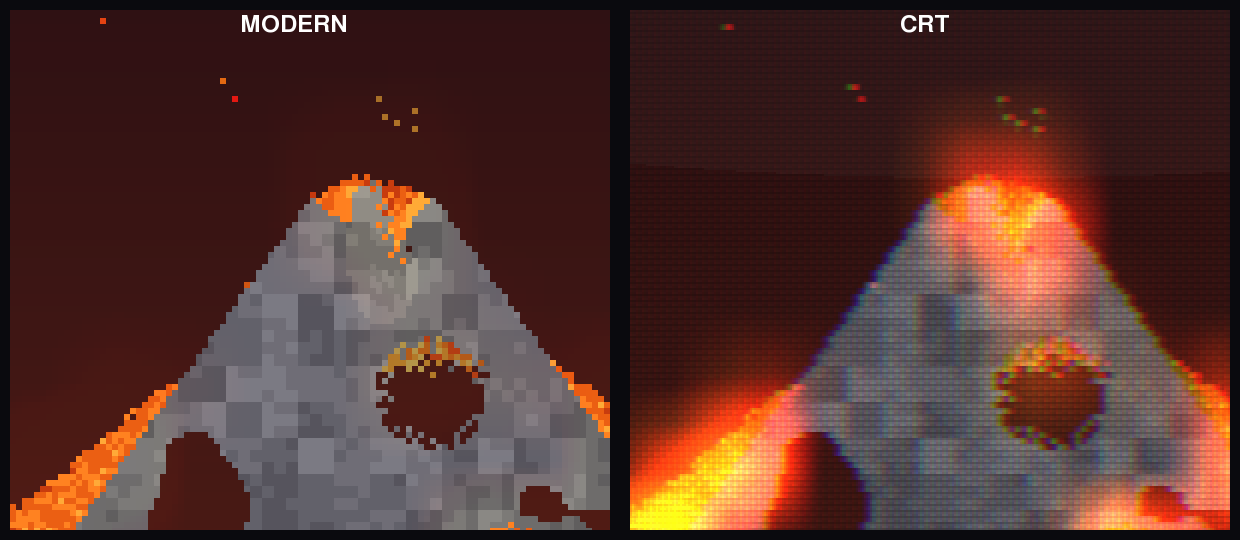
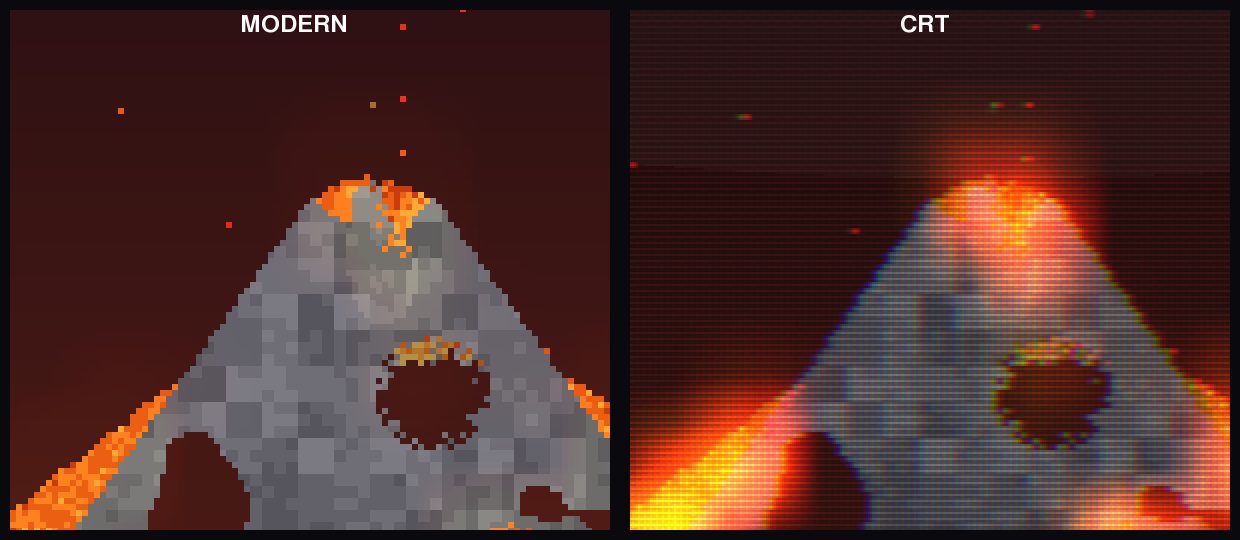
CRT: gaussian scanline beam profile - pixels become glowing pills
Replace the asymmetric per-row ramp (0.55/0.88/1.0, read as rectangular
slabs) with a symmetric gaussian beam profile per source scanline:
bright centre row, soft falloff above and below, deep gaps between
lines. Combined with the horizontal beam smear, every pixel now renders
as a rounded glowing capsule with soft ends - matching photos of real
tubes. Slot-mask gap lightened since scanlines now carry the vertical
structure.

https://claude.ai/code/session_01MyLFHKC6AZ3Q6u8JVU3zjJ

diff --git a/grubstorm/crt.py b/grubstorm/crt.py
@@ -55,11 +55,14 @@ class CRT:
         stagger = ((xs // 3) % 2) * (slot_h // 2)
         slot_row = (ys[None, :] + stagger[:, None]) % slot_h
         gap = slot_row == slot_h - 1
-        m[gap] *= 0.78
-        # scanlines: one darker row per source row, one slightly dim
-        m[:, ys % sc == 0] *= 0.55
-        if sc >= 3:
-            m[:, ys % sc == 1] *= 0.88
+        m[gap] *= 0.85
+        # scanlines: gaussian beam profile per source row — bright centre,
+        # symmetric falloff. Combined with the horizontal smear this turns
+        # every pixel into a glowing "pill" instead of a square.
+        c = (sc - 1) / 2.0
+        sigma = sc * 0.34
+        beam = np.exp(-(((ys % sc) - c) / sigma) ** 2).astype(np.float32)
+        m *= np.maximum(beam, 0.30)[None, :]
         # per-channel lane attenuation (phosphor triads)
         col = np.empty((w, h, 3), np.float32)
         col[:] = m[:, :, None]